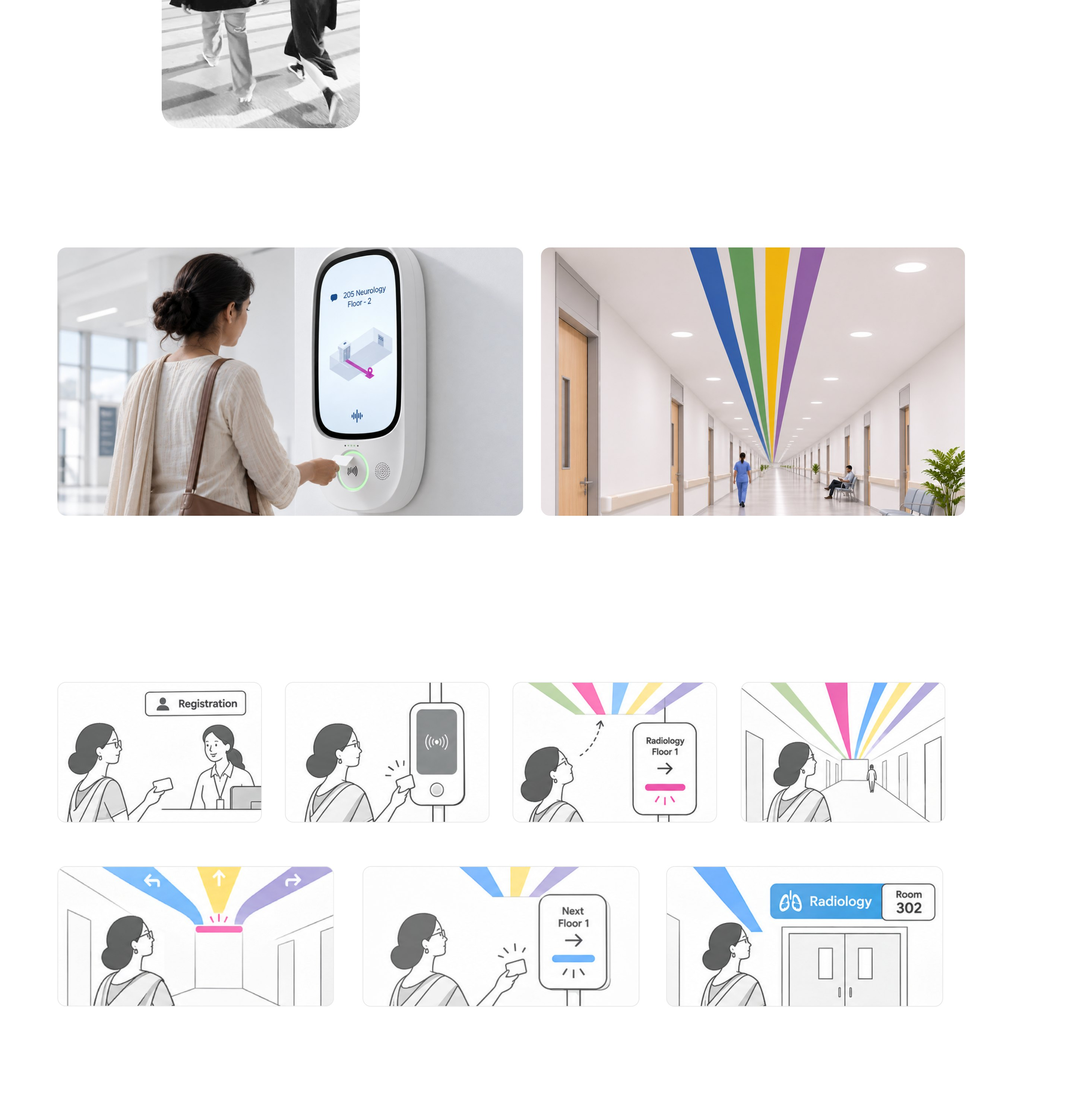
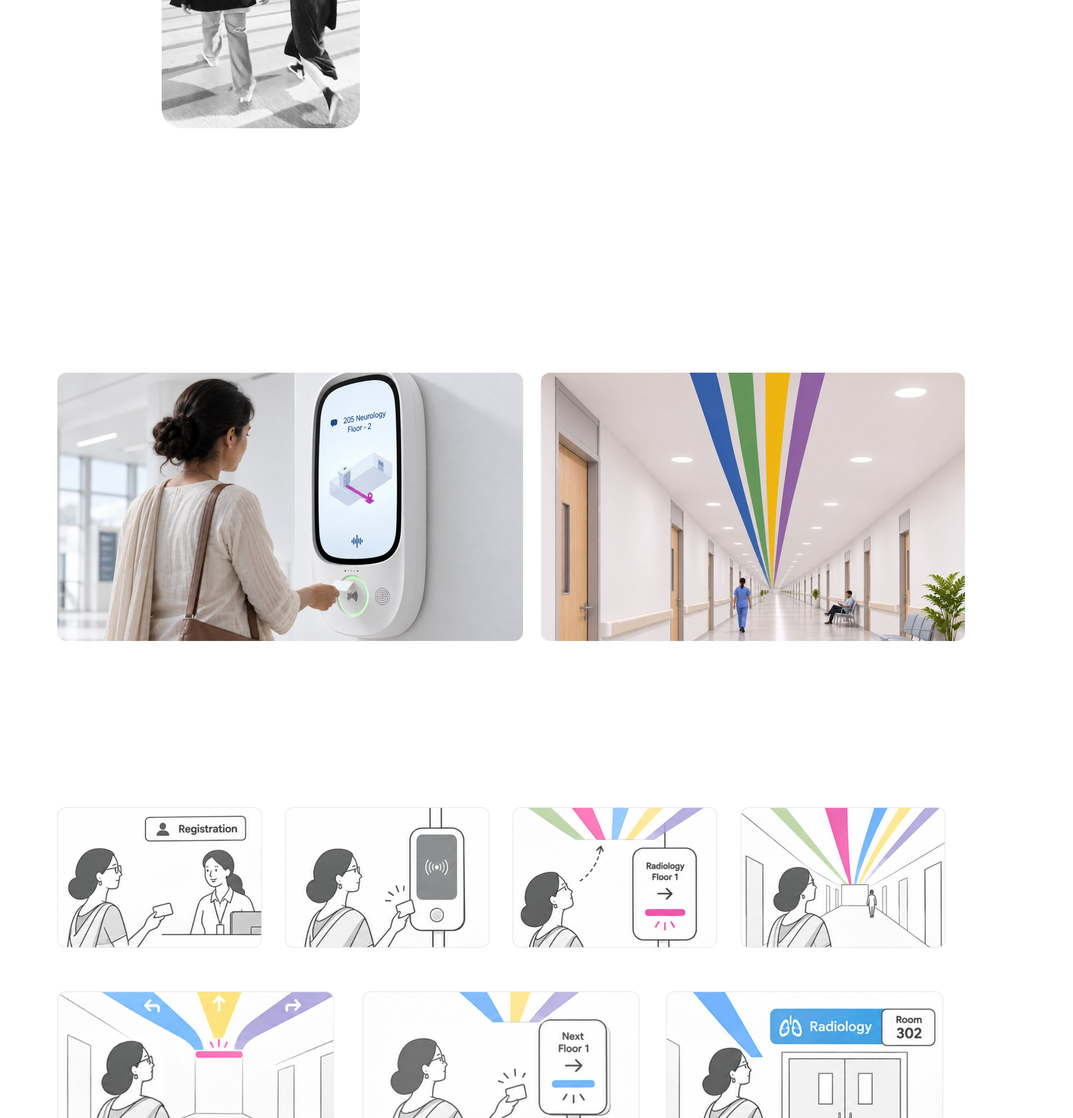
New homepage thumbnails, Disha page update, photo on About page
- MamaLap, Calbre and Disha cards now use hero images without repeated text
- Disha page rebuilt from Figma: 'Why the ceiling' section, red swatch removed
- Add portrait to About page

diff --git a/disha.html b/disha.html
@@ -8,7 +8,7 @@
 <link rel="stylesheet" href="https://fonts.googleapis.com/css2?family=Inter:opsz,wght@14..32,300..700&display=swap">
 <link rel="stylesheet" href="next.css">
 <style>
-/* Exact copy of Figma "Desktop - 1" (Disha, xYWEw85M0W0UBylJfN6U1G, node 1:3), 1440 x 10500, built 2026-11-03.
+/* Exact copy of Figma "Desktop - 1" (Disha, xYWEw85M0W0UBylJfN6U1G, node 1:3), 1440 x 10668, built 2026-11-03, updated 2026-11-04.
    Background tiles = every non-text layer, exported from Figma at 2x.
    Every text layer is live HTML at its Figma position, font, size and colour.
    SF Pro is used where the visitor has it (Apple devices); elsewhere Inter stands in.
@@ -16,7 +16,7 @@
 html,body{margin:0;background:#fff}
 body{-webkit-font-smoothing:antialiased;overflow-x:hidden}
 .cv{position:relative;width:100%;overflow:hidden}
-.canvas{position:absolute;left:0;top:0;width:1440px;height:10500px;overflow:hidden;background:#fff;transform-origin:0 0}
+.canvas{position:absolute;left:0;top:0;width:1440px;height:10668px;overflow:hidden;background:#fff;transform-origin:0 0}
 .tile{position:absolute;left:0;width:1440px;display:block}
 .t{position:absolute;margin:0;line-height:normal;white-space:pre-wrap;overflow-wrap:normal}
 .t.nw{white-space:pre}
@@ -74,19 +74,21 @@ body{-webkit-font-smoothing:antialiased;overflow-x:hidden}
 .k48{font-family:-apple-system,BlinkMacSystemFont,"SF Pro Display","SF Pro Text","Inter",system-ui,sans-serif;font-size:12px;color:#2b2b2b;font-weight:500;line-height:16px;}
 .k49{font-family:-apple-system,BlinkMacSystemFont,"SF Pro Display","SF Pro Text","Inter",system-ui,sans-serif;font-size:13px;color:#8c8c8c;font-weight:500;line-height:18px;}
 .k50{font-family:-apple-system,BlinkMacSystemFont,"SF Pro Display","SF Pro Text","Inter",system-ui,sans-serif;font-size:15px;color:#2b2b2b;font-weight:500;line-height:22px;}
-.x0{font-family:-apple-system,BlinkMacSystemFont,"SF Pro Display","SF Pro Text","Inter",system-ui,sans-serif;font-size:17px;color:#000000;line-height:1.2;letter-spacing:-0.02em;}
-.x1{font-family:-apple-system,BlinkMacSystemFont,"SF Pro Display","SF Pro Text","Inter",system-ui,sans-serif;font-size:17px;color:#000000;font-weight:700;line-height:1.2;letter-spacing:-0.02em;}
+.k51{font-family:-apple-system,BlinkMacSystemFont,"SF Pro Display","SF Pro Text","Inter",system-ui,sans-serif;font-size:17px;color:#000000;line-height:1.2;letter-spacing:-0.02em;}
+.k52{font-family:-apple-system,BlinkMacSystemFont,"SF Pro Display","SF Pro Text","Inter",system-ui,sans-serif;font-size:17px;color:#000000;font-weight:700;line-height:1.2;letter-spacing:-0.02em;}
+.k53{font-family:-apple-system,BlinkMacSystemFont,"SF Pro Display","SF Pro Text","Inter",system-ui,sans-serif;font-size:18px;color:#00797b;font-weight:500;line-height:24px;}
 </style>
 
 <div class="cv" id="cv">
 <div class="canvas" id="canvas">
-<img class="tile" src="images/disha-figma/t0.jpg?v=1103b" style="top:0px;height:1500px" alt="Disha, a wall-mounted wayfinding kiosk with a colour-coded ceiling path">
-<img class="tile" src="images/disha-figma/t1.jpg?v=1103b" style="top:1500px;height:1500px" alt="">
-<img class="tile" src="images/disha-figma/t2.jpg?v=1103b" style="top:3000px;height:1500px" alt="" loading="lazy">
-<img class="tile" src="images/disha-figma/t3.jpg?v=1103b" style="top:4500px;height:1500px" alt="" loading="lazy">
-<img class="tile" src="images/disha-figma/t4.jpg?v=1103b" style="top:6000px;height:1500px" alt="" loading="lazy">
-<img class="tile" src="images/disha-figma/t5.jpg?v=1103b" style="top:7500px;height:1500px" alt="" loading="lazy">
-<img class="tile" src="images/disha-figma/t6.jpg?v=1103b" style="top:9000px;height:1500px" alt="" loading="lazy">
+<img class="tile" src="images/disha-figma/t0.jpg?v=1104" style="top:0px;height:1500px" alt="Disha, a wall-mounted wayfinding kiosk with a colour-coded ceiling path">
+<img class="tile" src="images/disha-figma/t1.jpg?v=1104" style="top:1500px;height:1500px" alt="">
+<img class="tile" src="images/disha-figma/t2.jpg?v=1104" style="top:3000px;height:1500px" alt="" loading="lazy">
+<img class="tile" src="images/disha-figma/t3.jpg?v=1104" style="top:4500px;height:1500px" alt="" loading="lazy">
+<img class="tile" src="images/disha-figma/t4.jpg?v=1104" style="top:6000px;height:1500px" alt="" loading="lazy">
+<img class="tile" src="images/disha-figma/t5.jpg?v=1104" style="top:7500px;height:1500px" alt="" loading="lazy">
+<img class="tile" src="images/disha-figma/t6.jpg?v=1104" style="top:9000px;height:1500px" alt="" loading="lazy">
+<img class="tile" src="images/disha-figma/t7.jpg?v=1104" style="top:10500px;height:168px" alt="" loading="lazy">
 <p class="t nw" data-id="3:8" style="left:185px;top:227px;width:340px;"><span class="k0">DISHA</span></p>
 <p class="t" data-id="9:5" style="left:192px;top:370px;width:433px;"><span class="k1">A hospital wayfinding system for first-time rural visitors in Indian public hospitals.</span></p>
 <p class="t nw" data-id="14:2" style="left:77px;top:714px;width:45px;"><span class="k3">Team</span></p>
@@ -199,118 +201,124 @@ Design refinement</span></p>
 </span><span class="k21">FAMILY-</span><span class="k22"> </span><span class="k23">son. daughter and wife</span></p>
 <p class="t" data-id="79:149" style="left:235px;top:5120px;width:1030px;text-align:center;"><span class="k5">How might we help a first-time rural visitor feel confident and keep moving correctly through a crowded government hospital  without relying on reading staff or prior knowledge?</span></p>
 <p class="t nw" data-id="189:212" style="left:77px;top:5280px;width:248px;"><span class="k5">Developing Phase</span></p>
-<p class="t" data-id="196:213" style="left:968px;top:5786px;width:735px;"><span class="x0">Selected direction :</span><span class="x1"> The colour Bridge</span></p>
+<p class="t" data-id="196:213" style="left:968px;top:5786px;width:735px;"><span class="k51">Selected direction :</span><span class="k52"> The colour Bridge</span></p>
 <p class="t" data-id="96:48" style="left:504px;top:5930px;width:824px;text-align:justify;"><span class="k17">Design Rationale</span></p>
 <p class="t" data-id="96:38" style="left:504px;top:5996px;width:684px;"><span class="k16">At the hospital, visitors often followed others when unsure of the route. Studies show people imitate those ahead. We created a colour-coded ceiling path, letting visitors follow a clear visual trail instead of others.</span></p>
-<p class="t nw" data-id="108:75" style="left:77px;top:6244px;width:242px;"><span class="k5">System Overview</span></p>
-<p class="t" data-id="108:76" style="left:77px;top:6292px;width:1152px;"><span class="k30">A hospital wayfinding system that combines kiosk-based interaction with continuous colour-coded navigation.</span></p>
-<p class="t" data-id="108:79" style="left:77px;top:6704px;width:625px;"><span class="k31">01. Wall-mounted Kiosk 
+<p class="t" data-id="217:2" style="left:504px;top:6144px;width:684px;text-align:justify;"><span class="k17">Why the ceiling</span></p>
+<p class="t" data-id="217:3" style="left:504px;top:6180px;width:208px;"><span class="k41">Floor</span></p>
+<p class="t" data-id="217:5" style="left:742px;top:6180px;width:208px;"><span class="k41">Walls</span></p>
+<p class="t" data-id="217:7" style="left:980px;top:6180px;width:208px;"><span class="k53">Ceiling</span></p>
+<p class="t" data-id="217:4" style="left:504px;top:6208px;width:208px;"><span class="k25">In a busy corridor, the people walking ahead cover the line.</span></p>
+<p class="t" data-id="217:6" style="left:742px;top:6208px;width:208px;"><span class="k25">The line breaks at every door, side corridor and notice board.</span></p>
+<p class="t" data-id="217:8" style="left:980px;top:6208px;width:208px;"><span class="k25">Above the crowd and unbroken. Down a long corridor, the strip ahead sits close to eye level, in peripheral vision, so visitors don't need to look up.</span></p>
+<p class="t nw" data-id="108:75" style="left:77px;top:6412px;width:242px;"><span class="k5">System Overview</span></p>
+<p class="t" data-id="108:76" style="left:77px;top:6460px;width:1152px;"><span class="k30">A hospital wayfinding system that combines kiosk-based interaction with continuous colour-coded navigation.</span></p>
+<p class="t" data-id="108:79" style="left:77px;top:6872px;width:625px;"><span class="k31">01. Wall-mounted Kiosk 
 </span></p>
-<p class="t" data-id="108:80" style="left:726px;top:6704px;width:569px;"><span class="k31">02. Colour-coded Ceiling Path 
+<p class="t" data-id="108:80" style="left:726px;top:6872px;width:569px;"><span class="k31">02. Colour-coded Ceiling Path 
 </span></p>
-<p class="t" data-id="196:215" style="left:77px;top:6740px;width:625px;"><span class="k32">Placed at key locations such as entrances, lobbies and lift areas. Visitors scan their hospital card to receive department information and route direction</span></p>
-<p class="t" data-id="196:217" style="left:729px;top:6740px;width:569px;"><span class="k32">A continuous colour-coded path guides visitors through corridors and junctions towards their destination.</span></p>
-<p class="t nw" data-id="111:88" style="left:77px;top:6853px;width:348px;"><span class="k5">How They Work Together</span></p>
-<p class="t nw" data-id="130:2" style="left:78.9px;top:7114.9px;width:117px;"><span class="k33">01</span><span class="k34">   Registration</span></p>
-<p class="t nw" data-id="130:3" style="left:384.3px;top:7114.9px;width:127px;"><span class="k33">02</span><span class="k34">   Scan at kiosk</span></p>
-<p class="t nw" data-id="130:4" style="left:689.7px;top:7114.9px;width:195px;"><span class="k33">03</span><span class="k34">   Get colour and look up</span></p>
-<p class="t nw" data-id="130:5" style="left:996.1px;top:7114.9px;width:143px;"><span class="k33">04</span><span class="k34">   Follow the path</span></p>
-<p class="t nw" data-id="130:6" style="left:78.9px;top:7362px;width:137px;"><span class="k33">05</span><span class="k34">   At the junction</span></p>
-<p class="t nw" data-id="130:7" style="left:488.4px;top:7362px;width:220px;"><span class="k33">06</span><span class="k34">   Re-scan for next direction</span></p>
-<p class="t nw" data-id="130:8" style="left:896px;top:7362px;width:188px;"><span class="k33">07</span><span class="k34">   Reach the destination</span></p>
-<p class="t nw" data-id="137:2" style="left:77px;top:7454px;width:431px;"><span class="k5">Kiosk Dimensions and Features</span></p>
-<p class="t nw" data-id="151:2" style="left:374px;top:7606px;width:89px;"><span class="k41">Light strip</span></p>
-<p class="t" data-id="151:3" style="left:374px;top:7632px;width:300px;"><span class="k25">Lights up in the department colour</span></p>
-<p class="t nw" data-id="151:4" style="left:374px;top:7678px;width:61px;"><span class="k41">Screen</span></p>
-<p class="t" data-id="151:5" style="left:374px;top:7704px;width:300px;"><span class="k25">Department icon, room, floor and the path</span></p>
-<p class="t nw" data-id="151:6" style="left:374px;top:7750px;width:50px;"><span class="k41">Audio</span></p>
-<p class="t" data-id="151:7" style="left:374px;top:7776px;width:300px;"><span class="k25">Telugu voice instructions</span></p>
-<p class="t nw" data-id="151:8" style="left:374px;top:7822px;width:116px;"><span class="k41">Card scanner</span></p>
-<p class="t nw" data-id="153:2" style="left:77px;top:8008px;width:412px;"><span class="k5">Colour System &amp; Accessibility</span></p>
-<p class="t" data-id="153:3" style="left:77px;top:8054px;width:1218px;"><span class="k25">The colour palette was selected to make ceiling routes easy to identify, distinguish and follow.</span></p>
-<p class="t nw" data-id="163:3" style="left:109px;top:8128px;width:154px;"><span class="k41">Colour distinction</span></p>
-<p class="t nw" data-id="163:5" style="left:407.5px;top:8128px;width:117px;"><span class="k41">High visibility</span></p>
-<p class="t nw" data-id="163:7" style="left:706px;top:8128px;width:90px;"><span class="k41">Familiarity</span></p>
-<p class="t nw" data-id="163:9" style="left:1004.5px;top:8128px;width:134px;"><span class="k41">Additional cues</span></p>
-<p class="t" data-id="163:4" style="left:109px;top:8156px;width:258.5px;"><span class="k25">Colours should remain distinguishable for people with colour-vision deficiencies.</span></p>
-<p class="t" data-id="163:6" style="left:407.5px;top:8156px;width:258.5px;"><span class="k25">Strips should contrast clearly against the ceiling.</span></p>
-<p class="t" data-id="163:8" style="left:706px;top:8156px;width:258.5px;"><span class="k25">Colours were chosen with reference to familiar everyday visual cues.</span></p>
-<p class="t" data-id="163:10" style="left:1004.5px;top:8156px;width:258.5px;"><span class="k25">Different line patterns and department labels ensure navigation does not rely on colour alone.</span></p>
-<p class="t nw" data-id="163:12" style="left:109px;top:8298px;width:58px;"><span class="k42">#00B5B8</span></p>
-<p class="t nw" data-id="163:14" style="left:301.3px;top:8298px;width:59px;"><span class="k42">#7B2D8B</span></p>
-<p class="t nw" data-id="163:16" style="left:493.7px;top:8298px;width:56px;"><span class="k42">#F26522</span></p>
-<p class="t nw" data-id="163:18" style="left:686px;top:8298px;width:60px;"><span class="k42">#6DC72B</span></p>
-<p class="t nw" data-id="163:20" style="left:878.3px;top:8298px;width:56px;"><span class="k42">#F0047F</span></p>
-<p class="t nw" data-id="163:22" style="left:1070.7px;top:8298px;width:54px;"><span class="k42">#E52F21</span></p>
-<p class="t nw" data-id="163:23" style="left:109px;top:8332px;width:337px;"><span class="k43">Ceiling strip specification:</span><span class="k44"> 150 mm width · Matte finish</span></p>
-<p class="t nw" data-id="141:2" style="left:77px;top:8454px;width:576px;"><span class="k5">Interaction Flow &amp; Action-Feedback Logic</span></p>
-<p class="t nw" data-id="141:9" style="left:450px;top:8522px;width:100px;text-align:center;"><span class="k35">02</span><span class="k36">   Approach</span></p>
-<p class="t nw" data-id="141:4" style="left:236px;top:8523px;width:78px;text-align:center;"><span class="k35">01</span><span class="k36">   Attract</span></p>
-<p class="t nw" data-id="141:14" style="left:686px;top:8523px;width:91px;text-align:center;"><span class="k35">03</span><span class="k36">   NFC Tap</span></p>
-<p class="t nw" data-id="141:19" style="left:914px;top:8523px;width:95px;text-align:center;"><span class="k35">04</span><span class="k36">   Navigate</span></p>
-<p class="t nw" data-id="141:24" style="left:1137px;top:8523px;width:99px;text-align:center;"><span class="k35">05</span><span class="k36">   Reinforce</span></p>
-<p class="t" data-id="141:5" style="left:191px;top:8578px;width:179.6px;text-align:center;"><span class="k37">Sees the kiosk from a distance</span></p>
-<p class="t" data-id="141:25" style="left:1101.4px;top:8578px;width:179.6px;text-align:center;"><span class="k37">Taps card at the next kiosk</span></p>
-<p class="t nw" data-id="141:54" style="left:77px;top:8580px;width:45px;text-align:center;"><span class="k40">Patient
+<p class="t" data-id="196:215" style="left:77px;top:6908px;width:625px;"><span class="k32">Placed at key locations such as entrances, lobbies and lift areas. Visitors scan their hospital card to receive department information and route direction</span></p>
+<p class="t" data-id="196:217" style="left:729px;top:6908px;width:569px;"><span class="k32">A continuous colour-coded path guides visitors through corridors and junctions towards their destination.</span></p>
+<p class="t nw" data-id="111:88" style="left:77px;top:7021px;width:348px;"><span class="k5">How They Work Together</span></p>
+<p class="t nw" data-id="130:2" style="left:78.9px;top:7282.9px;width:117px;"><span class="k33">01</span><span class="k34">   Registration</span></p>
+<p class="t nw" data-id="130:3" style="left:384.3px;top:7282.9px;width:127px;"><span class="k33">02</span><span class="k34">   Scan at kiosk</span></p>
+<p class="t nw" data-id="130:4" style="left:689.7px;top:7282.9px;width:195px;"><span class="k33">03</span><span class="k34">   Get colour and look up</span></p>
+<p class="t nw" data-id="130:5" style="left:996.1px;top:7282.9px;width:143px;"><span class="k33">04</span><span class="k34">   Follow the path</span></p>
+<p class="t nw" data-id="130:6" style="left:78.9px;top:7530px;width:137px;"><span class="k33">05</span><span class="k34">   At the junction</span></p>
+<p class="t nw" data-id="130:7" style="left:488.4px;top:7530px;width:220px;"><span class="k33">06</span><span class="k34">   Re-scan for next direction</span></p>
+<p class="t nw" data-id="130:8" style="left:896px;top:7530px;width:188px;"><span class="k33">07</span><span class="k34">   Reach the destination</span></p>
+<p class="t nw" data-id="137:2" style="left:77px;top:7622px;width:431px;"><span class="k5">Kiosk Dimensions and Features</span></p>
+<p class="t nw" data-id="151:2" style="left:374px;top:7774px;width:89px;"><span class="k41">Light strip</span></p>
+<p class="t" data-id="151:3" style="left:374px;top:7800px;width:300px;"><span class="k25">Lights up in the department colour</span></p>
+<p class="t nw" data-id="151:4" style="left:374px;top:7846px;width:61px;"><span class="k41">Screen</span></p>
+<p class="t" data-id="151:5" style="left:374px;top:7872px;width:300px;"><span class="k25">Department icon, room, floor and the path</span></p>
+<p class="t nw" data-id="151:6" style="left:374px;top:7918px;width:50px;"><span class="k41">Audio</span></p>
+<p class="t" data-id="151:7" style="left:374px;top:7944px;width:300px;"><span class="k25">Telugu voice instructions</span></p>
+<p class="t nw" data-id="151:8" style="left:374px;top:7990px;width:116px;"><span class="k41">Card scanner</span></p>
+<p class="t nw" data-id="153:2" style="left:77px;top:8176px;width:412px;"><span class="k5">Colour System &amp; Accessibility</span></p>
+<p class="t" data-id="153:3" style="left:77px;top:8222px;width:1218px;"><span class="k25">The colour palette was selected to make ceiling routes easy to identify, distinguish and follow.</span></p>
+<p class="t nw" data-id="163:3" style="left:109px;top:8296px;width:154px;"><span class="k41">Colour distinction</span></p>
+<p class="t nw" data-id="163:5" style="left:407.5px;top:8296px;width:117px;"><span class="k41">High visibility</span></p>
+<p class="t nw" data-id="163:7" style="left:706px;top:8296px;width:90px;"><span class="k41">Familiarity</span></p>
+<p class="t nw" data-id="163:9" style="left:1004.5px;top:8296px;width:134px;"><span class="k41">Additional cues</span></p>
+<p class="t" data-id="163:4" style="left:109px;top:8324px;width:258.5px;"><span class="k25">Colours should remain distinguishable for people with colour-vision deficiencies.</span></p>
+<p class="t" data-id="163:6" style="left:407.5px;top:8324px;width:258.5px;"><span class="k25">Strips should contrast clearly against the ceiling.</span></p>
+<p class="t" data-id="163:8" style="left:706px;top:8324px;width:258.5px;"><span class="k25">Colours were chosen with reference to familiar everyday visual cues.</span></p>
+<p class="t" data-id="163:10" style="left:1004.5px;top:8324px;width:258.5px;"><span class="k25">Different line patterns and department labels ensure navigation does not rely on colour alone.</span></p>
+<p class="t nw" data-id="163:12" style="left:109px;top:8466px;width:58px;"><span class="k42">#00B5B8</span></p>
+<p class="t nw" data-id="163:14" style="left:339.8px;top:8466px;width:59px;"><span class="k42">#7B2D8B</span></p>
+<p class="t nw" data-id="163:16" style="left:570.6px;top:8466px;width:56px;"><span class="k42">#F26522</span></p>
+<p class="t nw" data-id="163:18" style="left:801.4px;top:8466px;width:60px;"><span class="k42">#6DC72B</span></p>
+<p class="t nw" data-id="163:20" style="left:1032.2px;top:8466px;width:56px;"><span class="k42">#F0047F</span></p>
+<p class="t nw" data-id="163:23" style="left:109px;top:8500px;width:337px;"><span class="k43">Ceiling strip specification:</span><span class="k44"> 150 mm width · Matte finish</span></p>
+<p class="t nw" data-id="141:2" style="left:77px;top:8622px;width:576px;"><span class="k5">Interaction Flow &amp; Action-Feedback Logic</span></p>
+<p class="t nw" data-id="141:9" style="left:450px;top:8690px;width:100px;text-align:center;"><span class="k35">02</span><span class="k36">   Approach</span></p>
+<p class="t nw" data-id="141:4" style="left:236px;top:8691px;width:78px;text-align:center;"><span class="k35">01</span><span class="k36">   Attract</span></p>
+<p class="t nw" data-id="141:14" style="left:686px;top:8691px;width:91px;text-align:center;"><span class="k35">03</span><span class="k36">   NFC Tap</span></p>
+<p class="t nw" data-id="141:19" style="left:914px;top:8691px;width:95px;text-align:center;"><span class="k35">04</span><span class="k36">   Navigate</span></p>
+<p class="t nw" data-id="141:24" style="left:1137px;top:8691px;width:99px;text-align:center;"><span class="k35">05</span><span class="k36">   Reinforce</span></p>
+<p class="t" data-id="141:5" style="left:191px;top:8746px;width:179.6px;text-align:center;"><span class="k37">Sees the kiosk from a distance</span></p>
+<p class="t" data-id="141:25" style="left:1101.4px;top:8746px;width:179.6px;text-align:center;"><span class="k37">Taps card at the next kiosk</span></p>
+<p class="t nw" data-id="141:54" style="left:77px;top:8748px;width:45px;text-align:center;"><span class="k40">Patient
 action</span></p>
-<p class="t" data-id="141:10" style="left:418.6px;top:8588px;width:179.6px;text-align:center;"><span class="k37">Walks into range</span></p>
-<p class="t" data-id="141:15" style="left:646.2px;top:8588px;width:179.6px;text-align:center;"><span class="k37">Taps card</span></p>
-<p class="t" data-id="141:20" style="left:873.8px;top:8588px;width:179.6px;text-align:center;"><span class="k37">Follows ceiling trail</span></p>
-<p class="t nw" data-id="141:30" style="left:285px;top:8641.5px;width:44px;text-align:center;"><span class="k39">Passive</span></p>
-<p class="t nw" data-id="141:35" style="left:511.6px;top:8641.5px;width:56px;text-align:center;"><span class="k39">IR Sensor</span></p>
-<p class="t nw" data-id="141:40" style="left:739.2px;top:8641.5px;width:68px;text-align:center;"><span class="k39">User Action</span></p>
-<p class="t nw" data-id="141:45" style="left:966.8px;top:8641.5px;width:85px;text-align:center;"><span class="k39">System output</span></p>
-<p class="t nw" data-id="141:50" style="left:1194.4px;top:8641.5px;width:65px;text-align:center;"><span class="k39">Distributed</span></p>
-<p class="t" data-id="141:6" style="left:191px;top:8684px;width:179.6px;text-align:center;"><span class="k36">Ambient Glow</span></p>
-<p class="t" data-id="141:11" style="left:418.6px;top:8684px;width:179.6px;text-align:center;"><span class="k36">Avatar Activates</span></p>
-<p class="t" data-id="141:16" style="left:646.2px;top:8684px;width:179.6px;text-align:center;"><span class="k36">Green tick + chime</span></p>
-<p class="t" data-id="141:21" style="left:873.8px;top:8684px;width:179.6px;text-align:center;"><span class="k36">Colour on ceiling</span></p>
-<p class="t" data-id="141:26" style="left:1101.4px;top:8684px;width:179.6px;text-align:center;"><span class="k36">Next kiosk</span></p>
-<p class="t nw" data-id="141:55" style="left:77px;top:8708.5px;width:59px;text-align:center;"><span class="k40">Kiosk
+<p class="t" data-id="141:10" style="left:418.6px;top:8756px;width:179.6px;text-align:center;"><span class="k37">Walks into range</span></p>
+<p class="t" data-id="141:15" style="left:646.2px;top:8756px;width:179.6px;text-align:center;"><span class="k37">Taps card</span></p>
+<p class="t" data-id="141:20" style="left:873.8px;top:8756px;width:179.6px;text-align:center;"><span class="k37">Follows ceiling trail</span></p>
+<p class="t nw" data-id="141:30" style="left:285px;top:8809.5px;width:44px;text-align:center;"><span class="k39">Passive</span></p>
+<p class="t nw" data-id="141:35" style="left:511.6px;top:8809.5px;width:56px;text-align:center;"><span class="k39">IR Sensor</span></p>
+<p class="t nw" data-id="141:40" style="left:739.2px;top:8809.5px;width:68px;text-align:center;"><span class="k39">User Action</span></p>
+<p class="t nw" data-id="141:45" style="left:966.8px;top:8809.5px;width:85px;text-align:center;"><span class="k39">System output</span></p>
+<p class="t nw" data-id="141:50" style="left:1194.4px;top:8809.5px;width:65px;text-align:center;"><span class="k39">Distributed</span></p>
+<p class="t" data-id="141:6" style="left:191px;top:8852px;width:179.6px;text-align:center;"><span class="k36">Ambient Glow</span></p>
+<p class="t" data-id="141:11" style="left:418.6px;top:8852px;width:179.6px;text-align:center;"><span class="k36">Avatar Activates</span></p>
+<p class="t" data-id="141:16" style="left:646.2px;top:8852px;width:179.6px;text-align:center;"><span class="k36">Green tick + chime</span></p>
+<p class="t" data-id="141:21" style="left:873.8px;top:8852px;width:179.6px;text-align:center;"><span class="k36">Colour on ceiling</span></p>
+<p class="t" data-id="141:26" style="left:1101.4px;top:8852px;width:179.6px;text-align:center;"><span class="k36">Next kiosk</span></p>
+<p class="t nw" data-id="141:55" style="left:77px;top:8876.5px;width:59px;text-align:center;"><span class="k40">Kiosk
 feedback</span></p>
-<p class="t" data-id="141:7" style="left:191px;top:8709px;width:179.6px;text-align:center;"><span class="k38">Kiosk light emits passively. Idle video loop runs</span></p>
-<p class="t" data-id="141:12" style="left:418.6px;top:8709px;width:179.6px;text-align:center;"><span class="k38">IR sensor detects presence. Lady avatar video plays</span></p>
-<p class="t" data-id="141:17" style="left:646.2px;top:8709px;width:179.6px;text-align:center;"><span class="k38">Audio + visual confirmation.</span></p>
-<p class="t" data-id="141:22" style="left:873.8px;top:8709px;width:179.6px;text-align:center;"><span class="k38">Screen shows dept + colour.</span></p>
-<p class="t" data-id="141:27" style="left:1101.4px;top:8709px;width:179.6px;text-align:center;"><span class="k38">Kiosk confirms path at every decision pt.</span></p>
-<p class="t nw" data-id="169:2" style="left:77px;top:8855px;width:437px;"><span class="k5">Prototyping, Testing &amp; Iterations</span></p>
-<p class="t nw" data-id="183:2" style="left:77px;top:8917px;width:252px;"><span class="k45">01.</span><span class="k46">  Kiosk Screen States</span></p>
-<p class="t" data-id="183:3" style="left:77px;top:8955px;width:1218px;"><span class="k25">Five interface states guide visitors through the scanning process and provide clear feedback at each step.</span></p>
-<p class="t" data-id="183:5" style="left:77px;top:9229px;width:230.8px;"><span class="k47">01.</span><span class="k41"> Idle / Attract</span></p>
-<p class="t" data-id="183:8" style="left:323.8px;top:9229px;width:230.8px;"><span class="k47">02.</span><span class="k41"> Scan Prompt</span></p>
-<p class="t" data-id="183:11" style="left:570.6px;top:9229px;width:230.8px;"><span class="k47">03.</span><span class="k41"> Scan Confirmed</span></p>
-<p class="t" data-id="183:16" style="left:817.4px;top:9229px;width:230.8px;"><span class="k47">04.</span><span class="k41"> Error State</span></p>
-<p class="t" data-id="183:19" style="left:1064.2px;top:9229px;width:230.8px;"><span class="k47">05.</span><span class="k41"> Information Display</span></p>
-<p class="t" data-id="183:6" style="left:77px;top:9257px;width:230.8px;"><span class="k25">Idle video introduces the kiosk.</span></p>
-<p class="t" data-id="183:9" style="left:323.8px;top:9257px;width:230.8px;"><span class="k25">IR sensor detects the visitor and prompts them to scan their card.</span></p>
-<p class="t" data-id="183:12" style="left:570.6px;top:9257px;width:230.8px;"><span class="k25">Green tick and audio chime confirm a successful scan.</span></p>
-<p class="t" data-id="183:17" style="left:817.4px;top:9257px;width:230.8px;"><span class="k25">Red visual cue and audio prompt indicate an unsuccessful scan.</span></p>
-<p class="t" data-id="183:20" style="left:1064.2px;top:9257px;width:230.8px;"><span class="k25">Department, room, floor and assigned route colour are displayed.</span></p>
-<p class="t nw" data-id="183:21" style="left:77px;top:9371px;width:168px;"><span class="k45">02.</span><span class="k46">  Prototyping</span></p>
-<p class="t" data-id="183:22" style="left:77px;top:9409px;width:1218px;"><span class="k25">Building and testing the interaction before developing the final appearance model.</span></p>
-<p class="t nw" data-id="183:29" style="left:167px;top:9466px;width:100px;"><span class="k48">RFID Card reader</span></p>
-<p class="t nw" data-id="183:27" style="left:97px;top:9660px;width:67px;"><span class="k48">TFT Screen</span></p>
-<p class="t" data-id="183:31" style="left:77px;top:9703px;width:424px;"><span class="k47">Stage 1 –</span><span class="k41"> Working Prototype</span></p>
-<p class="t" data-id="183:33" style="left:525px;top:9703px;width:490px;"><span class="k47">Stage 2 –</span><span class="k41"> Screen Upgrade</span></p>
-<p class="t" data-id="183:35" style="left:1039px;top:9703px;width:256px;"><span class="k47">Stage 3 –</span><span class="k41"> Appearance Model</span></p>
-<p class="t" data-id="183:32" style="left:77px;top:9731px;width:424px;"><span class="k25">ESP32, TFT display and RFID reader to test card scanning and department mapping.</span></p>
-<p class="t" data-id="183:34" style="left:525px;top:9731px;width:490px;"><span class="k25">Moved from TFT to laptop and then iPad for better readability.</span></p>
-<p class="t" data-id="183:36" style="left:1039px;top:9731px;width:256px;"><span class="k25">Foam-board kiosk with integrated screen, scanner and LED strip.</span></p>
-<p class="t nw" data-id="183:37" style="left:77px;top:9823px;width:177px;"><span class="k45">03.</span><span class="k46">  User Testing</span></p>
-<p class="t" data-id="183:38" style="left:77px;top:9861px;width:1218px;"><span class="k25">Three participants tested the kiosk interaction and colour-coded navigation.</span></p>
-<p class="t" data-id="183:39" style="left:90px;top:10063px;width:273.5px;"><span class="k25">Users followed the colour paths without prior instruction.</span></p>
-<p class="t" data-id="183:41" style="left:400.5px;top:10063px;width:273.5px;"><span class="k25">Telugu audio and visual confirmation were understood.</span></p>
-<p class="t" data-id="183:43" style="left:711px;top:10063px;width:273.5px;"><span class="k25">Some colours were difficult to distinguish.</span></p>
-<p class="t" data-id="183:45" style="left:1021.5px;top:10063px;width:273.5px;"><span class="k25">Users held the card against the scanner for too long.</span></p>
-<p class="t nw" data-id="183:47" style="left:77px;top:10155px;width:262px;"><span class="k45">04.</span><span class="k46">  Findings &amp; Iterations</span></p>
-<p class="t nw" data-id="183:49" style="left:109px;top:10233px;width:95px;"><span class="k49">What we learnt</span></p>
-<p class="t nw" data-id="183:50" style="left:710px;top:10233px;width:113px;"><span class="k49">What we changed</span></p>
-<p class="t" data-id="183:52" style="left:109px;top:10275px;width:521px;"><span class="k25">Similar colours caused confusion.</span></p>
-<p class="t" data-id="183:53" style="left:710px;top:10275px;width:553px;"><span class="k50">Revised the colour palette.</span></p>
-<p class="t" data-id="183:56" style="left:109px;top:10321px;width:521px;"><span class="k25">Standalone kiosk felt intimidating.</span></p>
-<p class="t" data-id="183:57" style="left:710px;top:10321px;width:553px;"><span class="k50">Switched to a wall-mounted kiosk.</span></p>
-<p class="t" data-id="183:60" style="left:109px;top:10367px;width:521px;"><span class="k25">Users needed simple instructions.</span></p>
-<p class="t" data-id="183:61" style="left:710px;top:10367px;width:553px;"><span class="k50">Retained visual and audio guidance.</span></p>
+<p class="t" data-id="141:7" style="left:191px;top:8877px;width:179.6px;text-align:center;"><span class="k38">Kiosk light emits passively. Idle video loop runs</span></p>
+<p class="t" data-id="141:12" style="left:418.6px;top:8877px;width:179.6px;text-align:center;"><span class="k38">IR sensor detects presence. Lady avatar video plays</span></p>
+<p class="t" data-id="141:17" style="left:646.2px;top:8877px;width:179.6px;text-align:center;"><span class="k38">Audio + visual confirmation.</span></p>
+<p class="t" data-id="141:22" style="left:873.8px;top:8877px;width:179.6px;text-align:center;"><span class="k38">Screen shows dept + colour.</span></p>
+<p class="t" data-id="141:27" style="left:1101.4px;top:8877px;width:179.6px;text-align:center;"><span class="k38">Kiosk confirms path at every decision pt.</span></p>
+<p class="t nw" data-id="169:2" style="left:77px;top:9023px;width:437px;"><span class="k5">Prototyping, Testing &amp; Iterations</span></p>
+<p class="t nw" data-id="183:2" style="left:77px;top:9085px;width:252px;"><span class="k45">01.</span><span class="k46">  Kiosk Screen States</span></p>
+<p class="t" data-id="183:3" style="left:77px;top:9123px;width:1218px;"><span class="k25">Five interface states guide visitors through the scanning process and provide clear feedback at each step.</span></p>
+<p class="t" data-id="183:5" style="left:77px;top:9397px;width:230.8px;"><span class="k47">01.</span><span class="k41"> Idle / Attract</span></p>
+<p class="t" data-id="183:8" style="left:323.8px;top:9397px;width:230.8px;"><span class="k47">02.</span><span class="k41"> Scan Prompt</span></p>
+<p class="t" data-id="183:11" style="left:570.6px;top:9397px;width:230.8px;"><span class="k47">03.</span><span class="k41"> Scan Confirmed</span></p>
+<p class="t" data-id="183:16" style="left:817.4px;top:9397px;width:230.8px;"><span class="k47">04.</span><span class="k41"> Error State</span></p>
+<p class="t" data-id="183:19" style="left:1064.2px;top:9397px;width:230.8px;"><span class="k47">05.</span><span class="k41"> Information Display</span></p>
+<p class="t" data-id="183:6" style="left:77px;top:9425px;width:230.8px;"><span class="k25">Idle video introduces the kiosk.</span></p>
+<p class="t" data-id="183:9" style="left:323.8px;top:9425px;width:230.8px;"><span class="k25">IR sensor detects the visitor and prompts them to scan their card.</span></p>
+<p class="t" data-id="183:12" style="left:570.6px;top:9425px;width:230.8px;"><span class="k25">Green tick and audio chime confirm a successful scan.</span></p>
+<p class="t" data-id="183:17" style="left:817.4px;top:9425px;width:230.8px;"><span class="k25">Red visual cue and audio prompt indicate an unsuccessful scan.</span></p>
+<p class="t" data-id="183:20" style="left:1064.2px;top:9425px;width:230.8px;"><span class="k25">Department, room, floor and assigned route colour are displayed.</span></p>
+<p class="t nw" data-id="183:21" style="left:77px;top:9539px;width:168px;"><span class="k45">02.</span><span class="k46">  Prototyping</span></p>
+<p class="t" data-id="183:22" style="left:77px;top:9577px;width:1218px;"><span class="k25">Building and testing the interaction before developing the final appearance model.</span></p>
+<p class="t nw" data-id="183:29" style="left:167px;top:9634px;width:100px;"><span class="k48">RFID Card reader</span></p>
+<p class="t nw" data-id="183:27" style="left:97px;top:9828px;width:67px;"><span class="k48">TFT Screen</span></p>
+<p class="t" data-id="183:31" style="left:77px;top:9871px;width:424px;"><span class="k47">Stage 1 –</span><span class="k41"> Working Prototype</span></p>
+<p class="t" data-id="183:33" style="left:525px;top:9871px;width:490px;"><span class="k47">Stage 2 –</span><span class="k41"> Screen Upgrade</span></p>
+<p class="t" data-id="183:35" style="left:1039px;top:9871px;width:256px;"><span class="k47">Stage 3 –</span><span class="k41"> Appearance Model</span></p>
+<p class="t" data-id="183:32" style="left:77px;top:9899px;width:424px;"><span class="k25">ESP32, TFT display and RFID reader to test card scanning and department mapping.</span></p>
+<p class="t" data-id="183:34" style="left:525px;top:9899px;width:490px;"><span class="k25">Moved from TFT to laptop and then iPad for better readability.</span></p>
+<p class="t" data-id="183:36" style="left:1039px;top:9899px;width:256px;"><span class="k25">Foam-board kiosk with integrated screen, scanner and LED strip.</span></p>
+<p class="t nw" data-id="183:37" style="left:77px;top:9991px;width:177px;"><span class="k45">03.</span><span class="k46">  User Testing</span></p>
+<p class="t" data-id="183:38" style="left:77px;top:10029px;width:1218px;"><span class="k25">Three participants tested the kiosk interaction and colour-coded navigation.</span></p>
+<p class="t" data-id="183:39" style="left:90px;top:10231px;width:273.5px;"><span class="k25">Users followed the colour paths without prior instruction.</span></p>
+<p class="t" data-id="183:41" style="left:400.5px;top:10231px;width:273.5px;"><span class="k25">Telugu audio and visual confirmation were understood.</span></p>
+<p class="t" data-id="183:43" style="left:711px;top:10231px;width:273.5px;"><span class="k25">Some colours were difficult to distinguish.</span></p>
+<p class="t" data-id="183:45" style="left:1021.5px;top:10231px;width:273.5px;"><span class="k25">Users held the card against the scanner for too long.</span></p>
+<p class="t nw" data-id="183:47" style="left:77px;top:10323px;width:262px;"><span class="k45">04.</span><span class="k46">  Findings &amp; Iterations</span></p>
+<p class="t nw" data-id="183:49" style="left:109px;top:10401px;width:95px;"><span class="k49">What we learnt</span></p>
+<p class="t nw" data-id="183:50" style="left:710px;top:10401px;width:113px;"><span class="k49">What we changed</span></p>
+<p class="t" data-id="183:52" style="left:109px;top:10443px;width:521px;"><span class="k25">Similar colours caused confusion.</span></p>
+<p class="t" data-id="183:53" style="left:710px;top:10443px;width:553px;"><span class="k50">Revised the colour palette.</span></p>
+<p class="t" data-id="183:56" style="left:109px;top:10489px;width:521px;"><span class="k25">Standalone kiosk felt intimidating.</span></p>
+<p class="t" data-id="183:57" style="left:710px;top:10489px;width:553px;"><span class="k50">Switched to a wall-mounted kiosk.</span></p>
+<p class="t" data-id="183:60" style="left:109px;top:10535px;width:521px;"><span class="k25">Users needed simple instructions.</span></p>
+<p class="t" data-id="183:61" style="left:710px;top:10535px;width:553px;"><span class="k50">Retained visual and audio guidance.</span></p>
 </div>
 </div>
 
@@ -336,7 +344,7 @@ feedback</span></p>
   function fit(){
     var k = w.clientWidth / 1440;
     c.style.transform = 'scale(' + k + ')';
-    w.style.height = (10500 * k) + 'px';
+    w.style.height = (10668 * k) + 'px';
   }
   fit(); addEventListener('resize', fit);
 })();

diff --git a/index.html b/index.html
@@ -119,7 +119,7 @@ footer .links a:hover{color:var(--ink)}
     <!-- reading order across the rows: SPD, KAI, TCP, Disha, CMF -->
     <div class="grid">
       <a class="card" href="mamalap.html">
-        <div class="img"><img style="object-position:69% 50%" src="images/home/spd-mamalap-hero-v2.jpg" width="1420" height="799" alt="MamaLap, a light blue two-part breastfeeding lap pillow, with the MamaLap wordmark"><p class="hint">Breastfeeding support for new mothers &middot; 2025</p></div>
+        <div class="img"><img src="images/home/mamalap.jpg?v=1104" width="1600" height="1000" alt="MamaLap, a light blue two-part breastfeeding lap pillow"><p class="hint">Breastfeeding support for new mothers &middot; 2025</p></div>
         <div class="meta"><h2>MamaLap</h2><p class="tags"><span>Product Design</span><span>Ergonomic Design</span><span>Prototyping</span></p></div>
       </a>
       <a class="card" href="kai.html">
@@ -127,11 +127,11 @@ footer .links a:hover{color:var(--ink)}
         <div class="meta"><h2>KAI</h2><p class="tags"><span>UX Research</span><span>Interaction Design</span><span>VUI Design</span></p></div>
       </a>
       <a class="card" href="calbre.html">
-        <div class="img"><img src="images/home/tcp-calbre.jpg?v=1029" width="1600" height="1000" alt="Calbre, a handheld breath device"><p class="hint">A breath companion for weight maintenance &middot; 2026</p></div>
+        <div class="img"><img src="images/home/calbre.jpg?v=1104g" width="1586" height="992" alt="Exploded view of Calbre, a handheld breath device: front shell, circuit board with the round display, breath chamber and battery, and back shell"><p class="hint">A breath companion for weight maintenance &middot; 2026</p></div>
         <div class="meta"><h2>Calbre</h2><p class="tags"><span>Product Design</span><span>Interaction Design</span><span>Electronics</span></p></div>
       </a>
       <a class="card" href="disha.html">
-        <div class="img"><img src="images/home/disha.jpg?v=1103" width="1600" height="1000" alt="Disha, a wall-mounted hospital wayfinding kiosk"><p class="hint">Hospital wayfinding for first-time rural visitors</p></div>
+        <div class="img"><img src="images/home/disha.jpg?v=1104" width="1600" height="1000" alt="Disha, a wall-mounted hospital wayfinding kiosk"><p class="hint">Hospital wayfinding for first-time rural visitors</p></div>
         <div class="meta"><h2>Disha</h2><p class="tags"><span>UX Research</span><span>Interaction Design</span><span>System Design</span></p></div>
       </a>
       <a class="card" href="cmf.html">

diff --git a/about.html b/about.html
@@ -101,6 +101,10 @@ footer .links a:hover{color:var(--ink)}
 .ab-quote cite{display:block;margin-top:16px;font-style:normal;color:var(--soft)}
 @media (max-width:809px){.ab-quote p{font-size:24px}}
 
+.ab-photo{margin:0 0 48px;max-width:420px;aspect-ratio:4/5;overflow:hidden;border-radius:4px;background:#f3f3f3}
+.ab-photo img{width:100%;height:100%;object-fit:cover}
+@media (max-width:809px){.ab-photo{max-width:none}}
+
 .ab-hero{padding-top:205px;padding-bottom:28px;display:grid;grid-template-columns:476px 1fr}
 .ab-hero h1{grid-column:2;margin:0;font-weight:500;font-size:72px;line-height:1.1;letter-spacing:-.03em}
 .ab .split{padding:32px 0 96px}
@@ -135,6 +139,7 @@ footer .links a:hover{color:var(--ink)}
     <div class="row split">
       <p class="label">Info</p>
       <div>
+        <div class="ab-photo"><img src="images/about/evelin.jpg?v=1107" width="960" height="1200" alt="Evelin Achu Jacob, smiling, in a blue block-printed kurta"></div>
         <blockquote class="ab-quote"><p>&ldquo;I&rsquo;ve learned that people will forget what you said, people will forget what you did, but people will never forget how you made them feel.&rdquo;</p><cite>&mdash; Maya Angelou</cite></blockquote>
         <p class="big">I&rsquo;m Evelin, a fourth-year Industrial Design student at NID, interested in how people interact with the world around them and the experiences they take away.</p>
         <p class="big">I&rsquo;m interested in what makes an experience meaningful, and how thoughtful design can shape the way people feel, interact and connect with the things around them.</p>

diff --git a/cmf.html b/cmf.html
@@ -170,7 +170,7 @@ ul.t li.gap{list-style:none}
 <section class="nx">
   <a class="nx-card" href="mamalap.html" data-cursor-text="Explore">
     <div><p class="nx-label">Next project</p><p class="nx-title">MamaLap</p></div>
-    <div class="nx-img"><img src="images/home/spd-mamalap-hero-v2.jpg" style="object-position:69% 50%" alt="MamaLap" loading="lazy"></div>
+    <div class="nx-img"><img src="images/home/mamalap.jpg?v=1104" alt="MamaLap" loading="lazy"></div>
   </a>
   <footer class="nx-ft">
     <span>&copy; 2026 Evelin Achu Jacob</span>

diff --git a/calbre.html b/calbre.html
@@ -216,7 +216,7 @@ body{-webkit-font-smoothing:antialiased;overflow-x:hidden}
 <section class="nx">
   <a class="nx-card" href="disha.html" data-cursor-text="Explore">
     <div><p class="nx-label">Next project</p><p class="nx-title">Disha</p></div>
-    <div class="nx-img"><img src="images/home/disha.jpg?v=1103" alt="Disha" loading="lazy"></div>
+    <div class="nx-img"><img src="images/home/disha.jpg?v=1104" alt="Disha" loading="lazy"></div>
   </a>
   <footer class="nx-ft">
     <span>&copy; 2026 Evelin Achu Jacob</span>

diff --git a/kai.html b/kai.html
@@ -282,7 +282,7 @@ left?</span></p>
 <section class="nx">
   <a class="nx-card" href="calbre.html" data-cursor-text="Explore">
     <div><p class="nx-label">Next project</p><p class="nx-title">Calbre</p></div>
-    <div class="nx-img"><img src="images/home/tcp-calbre.jpg?v=1029" alt="Calbre" loading="lazy"></div>
+    <div class="nx-img"><img src="images/home/calbre.jpg?v=1104g" alt="Calbre" loading="lazy"></div>
   </a>
   <footer class="nx-ft">
     <span>&copy; 2026 Evelin Achu Jacob</span>
